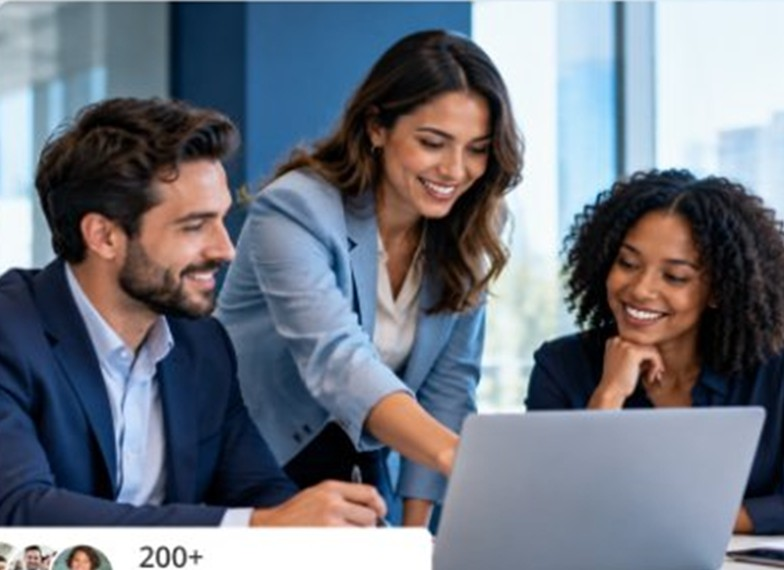
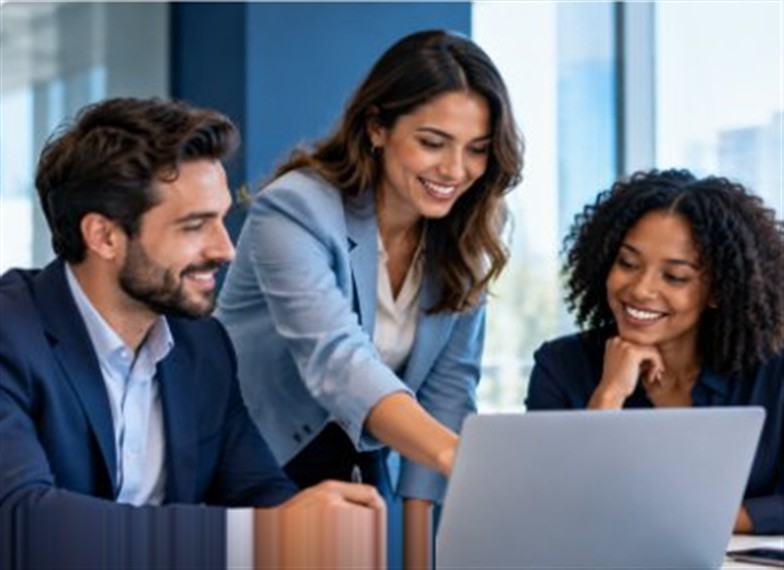
feat: add Why Choose Us section with custom styling and assets

Changed region(s): [[0.0, 0.8947, 0.5816, 1.0]]

diff --git a/index.html b/index.html
@@ -444,6 +444,91 @@
     </div>
   </section>
 
+  <!-- ==================== WHY CHOOSE US SECTION ==================== -->
+  <section id="why-choose-us" class="why-choose-bg py-16 sm:py-20 lg:py-24 overflow-hidden">
+    <div class="max-w-[1440px] mx-auto px-5 sm:px-8 lg:px-[72px]">
+      
+      <div class="flex flex-col lg:flex-row items-center justify-between gap-12 lg:gap-14 xl:gap-16">
+        
+        <!-- Left Column: Team Photo & Floating "200+ Trusted" Badge -->
+        <div class="w-full lg:w-[46%] relative pb-6 sm:pb-4">
+          <!-- Main Rounded Image Card -->
+          <div class="relative rounded-[14px] overflow-hidden shadow-[0_18px_45px_rgba(15,23,42,0.10)]">
+            <img 
+              src="./public/why-choose-us/team-support.jpg" 
+              alt="Skilled remote professionals collaborating to grow your business" 
+              class="w-full h-[300px] sm:h-[370px] lg:h-[390px] object-cover object-top select-none"
+            />
+          </div>
+
+          <!-- Floating Bottom-Left Trust Card ("200+ Trusted by business company") -->
+          <div 
+            class="absolute -bottom-2 left-0 sm:-left-5 bg-white rounded-[10px] px-4 sm:px-5 py-3.5 shadow-[0_12px_32px_rgba(15,23,42,0.10)] border border-slate-100 flex items-center gap-4 min-w-[270px] sm:min-w-[305px] z-10"
+          >
+            <!-- Overlapping Avatar Stack -->
+            <div class="flex items-center -space-x-2.5 shrink-0">
+              <img 
+                src="./public/why-choose-us/avatar-1.jpg" 
+                alt="Client Avatar 1" 
+                class="w-10 h-10 rounded-full object-cover ring-2 ring-white"
+              />
+              <img 
+                src="./public/why-choose-us/avatar-2.jpg" 
+                alt="Client Avatar 2" 
+                class="w-10 h-10 rounded-full object-cover ring-2 ring-white"
+              />
+              <img 
+                src="./public/why-choose-us/avatar-3.jpg" 
+                alt="Client Avatar 3" 
+                class="w-10 h-10 rounded-full object-cover ring-2 ring-white"
+              />
+            </div>
+
+            <!-- Trust Stats Text -->
+            <div>
+              <p class="text-[#1A2642] font-bold text-[18px] leading-tight">
+                200+
+              </p>
+              <p class="text-[#8492A6] text-[12px] font-medium leading-snug mt-0.5">
+                Trusted by business company
+              </p>
+            </div>
+          </div>
+        </div>
+
+        <!-- Right Column: Content & CTA -->
+        <div class="w-full lg:w-[54%] text-left">
+          <!-- Eyebrow Label -->
+          <p class="text-[#4B6587] text-[13px] font-semibold uppercase tracking-[0.06em] mb-3.5">
+            WHY CHOOSE US
+          </p>
+
+          <!-- Main Heading -->
+          <h2 class="text-[30px] sm:text-[36px] lg:text-[40px] xl:text-[44px] leading-[1.24] tracking-[-0.015em] text-[#4A5A75] font-normal mb-6">
+            The Support You Need to <span class="font-bold text-[#1A2642]">Grow Your<br class="hidden sm:inline" /> Business</span>
+          </h2>
+
+          <!-- Description Paragraph -->
+          <p class="text-[#56657E] text-[15px] sm:text-[16px] lg:text-[16.5px] leading-[1.7] font-normal max-w-[630px] mb-9">
+            Build a reliable remote team that fits your business needs, supports daily operations, and gives you more time to focus on what matters. Whether you need help with administrative tasks, customer service, or sales, we connect you with skilled professionals who can make your workload easier and keep your business running smoothly.
+          </p>
+
+          <!-- CTA Button -->
+          <div>
+            <a 
+              href="#quote" 
+              class="inline-flex items-center justify-center bg-[#1C2A44] hover:bg-[#131E33] text-white text-[14.5px] font-medium px-7 py-3.5 rounded-[7px] shadow-sm transition-all duration-200 hover:shadow-md active:scale-[0.98]"
+            >
+              Request a quote
+            </a>
+          </div>
+        </div>
+
+      </div>
+
+    </div>
+  </section>
+
   <!-- Main JavaScript -->
   <script src="./js/main.js"></script>
 </body>

diff --git a/css/style.css b/css/style.css
@@ -43,3 +43,9 @@
 .diamond-frame:hover img {
   transform: rotate(-45deg) scale(1.48);
 }
+
+/* Why Choose Us Section Soft Multi-Stop Gradient matching Figma 1:1 */
+.why-choose-bg {
+  background: linear-gradient(108deg, #E8EEF5 0%, #E7F2FD 42%, #F6FBE9 74%, #FDF8E1 100%);
+}
+
